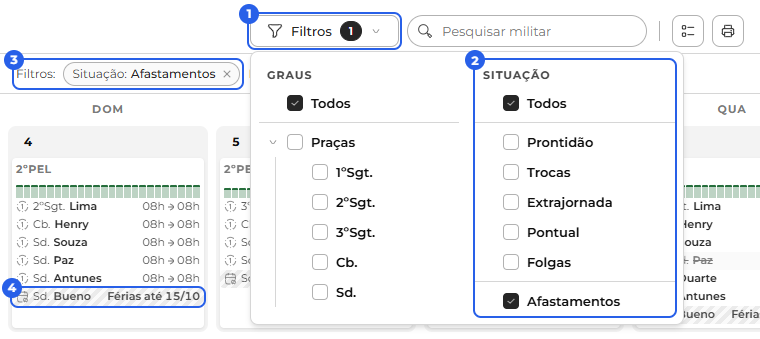
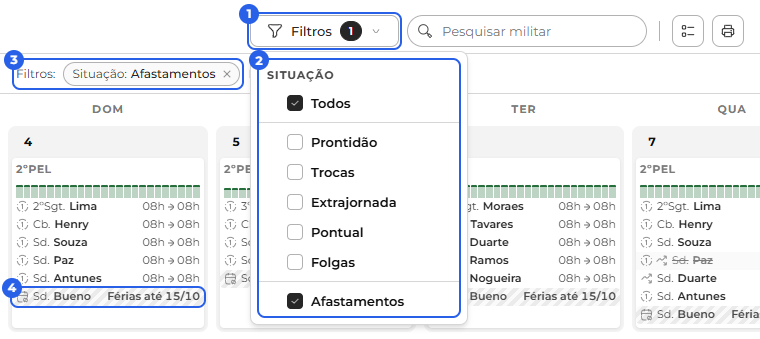
1

diff --git a/manual.html b/manual.html
@@ -590,7 +590,7 @@
               <figure class="manual-figura">
                 <img src="manual/imagens/escala-busca.png" width="220" height="62" alt="A busca da Escala com o nome do militar digitado." />
               </figure>
-              <p><strong>Filtrar a escala.</strong> Nos modos Mês e Colunas, antes da busca, fica o botão <strong>Filtros</strong>. Ele abre duas colunas: <strong>Graus</strong>, para ver só os graus que você marcar (por exemplo, só cabos e soldados), e <strong>Situação</strong>, para ver só um tipo de serviço: <strong>Prontidão</strong> (quem está no ciclo, os contínuos), <strong>Trocas</strong>, <strong>Extrajornada</strong>, <strong>Pontual</strong> ou <strong>Folgas</strong>. Quem está de <strong>férias, licença ou dispensa</strong> aparece quando você marca <strong>Afastamentos</strong>, numa linha listrada que diz até quando vai o afastamento (por exemplo, "Férias até 15/10"). Afastamentos soma ao que já está marcado: com <strong>Todos</strong>, aparecem todos e mais os afastados; para ver só os afastados, desmarque <strong>Todos</strong>. O número no botão diz quantos filtros estão ligados, e a linha <strong>Filtros</strong>, embaixo da barra, mostra quais: o x de cada etiqueta tira só aquele filtro, e <strong>Limpar filtros</strong> tira todos. Os filtros voltam vazios quando você sai da página.</p>
+              <p><strong>Filtrar a escala.</strong> Nos modos Mês e Colunas, antes da busca, fica o botão <strong>Filtros</strong>. Ele abre a coluna <strong>Situação</strong>, para ver só um tipo de serviço: <strong>Prontidão</strong> (quem está no ciclo, os contínuos), <strong>Trocas</strong>, <strong>Extrajornada</strong>, <strong>Pontual</strong> ou <strong>Folgas</strong>. Quem está de <strong>férias, licença ou dispensa</strong> aparece quando você marca <strong>Afastamentos</strong>, numa linha listrada que diz até quando vai o afastamento (por exemplo, "Férias até 15/10"). Afastamentos soma ao que já está marcado: com <strong>Todos</strong>, aparecem todos e mais os afastados; para ver só os afastados, desmarque <strong>Todos</strong>. O número no botão diz quantos filtros estão ligados, e a linha <strong>Filtros</strong>, embaixo da barra, mostra quais: o x de cada etiqueta tira só aquele filtro, e <strong>Limpar filtros</strong> tira todos. Os filtros voltam vazios quando você sai da página.</p>
               <figure class="manual-figura manual-figura--cheia">
                 <img src="manual/imagens/escala-filtros.png" width="760" height="339" alt="O botão Filtros com o número 1 (1), aberto, com Todos e Afastamentos marcados na coluna Situação (2), a linha Filtros com a etiqueta Afastamentos (3) e, num dia, um militar de férias na linha listrada (4)." />
                 <figcaption>
@@ -863,7 +863,7 @@
                 <p><strong>Só naquele dia.</strong> Para escalar um militar só num dia, sem entrar no ciclo, use o <strong>Adicionar militar</strong> da aba Dia (veja <strong>Ajustar o dia</strong>, logo abaixo).</p>
                 <h3 id="distribuicao-dia">Ajustar o dia <span class="manual-selo-admin">Apenas administradores</span></h3>
                 <p>Na aba <strong>Dia</strong> do painel do dia, você ajusta aquele dia. Para o administrador, a aba já abre pronta para editar: a lista é a mesma que todos veem, com o botão <strong>Adicionar militar</strong> no alto do painel, o <strong>lápis</strong> em cada linha e, ao lado do nome de cada posto, o botão <strong>Editar posto</strong>. As mudanças valem <strong>só para aquele dia</strong> e não precisam de Salvar: cada uma grava na hora, e a escala da página já mostra o dia atualizado.</p>
-                <p><strong>Desfazer e Refazer.</strong> Os ícones no alto do painel, à direita, desfazem a última mudança e a refazem (também pelo teclado: <strong>Ctrl+Z</strong> desfaz e <strong>Ctrl+Y</strong> refaz). Valem para as mudanças feitas enquanto o painel está aberto naquele dia; ao fechar o painel ou trocar de dia, começam do zero. Desfazer não manda aviso a ninguém: se você deu folga a um militar e desfez, ele não recebe aviso de folga cancelada.</p>
+                <p><strong>Desfazer e Refazer.</strong> Os ícones no alto do painel, à direita, desfazem a última mudança e a refazem (também pelo teclado: <strong>Ctrl+Z</strong> desfaz e <strong>Ctrl+Y</strong> refaz). Valem para as mudanças feitas enquanto o painel está aberto naquele dia; ao fechar o painel ou trocar de dia, começam do zero. Desfazer não manda aviso a ninguém: se você deu folga a um militar e desfez, ele não recebe aviso de folga cancelada; se você cancelou uma folga e desfez, ela volta como era.</p>
                 <figure class="manual-figura">
                   <img src="manual/imagens/escala-painel-admin.png" width="400" height="282" alt="O alto do painel do dia para o administrador: as abas Dia, Ciclo e Extrajornada (1), o botão Adicionar militar (2), os ícones Desfazer e Refazer (3), o lápis de uma linha (4) e o botão Editar posto (5)." />
                   <figcaption>
@@ -912,6 +912,7 @@
                     </ol>
                   </figcaption>
                 </figure>
+                <p><strong>Cancelar uma folga.</strong> Quem está de folga no dia aparece riscado na caixa <strong>De folga</strong>, também com o <strong>lápis</strong>. Ele abre a folga daquele militar: o horário dela, se foi contabilizada no banco de horas e o que acontece ao cancelar. O botão <strong>Cancelar folga</strong> pede a confirmação; ao confirmar, o militar volta ao serviço naquele dia, a distribuição é refeita, ele recebe um aviso e, se a folga foi contabilizada, as horas voltam ao saldo dele. Vale para qualquer folga do dia: dada aqui, na página Folgas ou por um pedido aprovado. Para sair sem cancelar, use <strong>Voltar ao dia</strong>.</p>
                 <p><strong>Horário sem ninguém.</strong> Quando você tira alguém de uma função num horário, esse horário fica vermelho, com o botão <strong>Sem ninguém, escolher</strong>. Ele abre o mesmo formulário, já com a função e o horário, e mostra também quem está de serviço sem função nesse horário. A linha mexida tem ainda o ícone <strong>Voltar ao automático</strong>, que desfaz o ajuste.</p>
                 <figure class="manual-figura">
                   <img src="manual/imagens/escala-editar.png" width="391" height="162" alt="Uma função mexida no dia: a linha com o cadeado e o ícone Voltar ao automático (1) e o horário sem ninguém, com o botão Sem ninguém, escolher (2)." />
@@ -1370,7 +1371,7 @@
                     </ol>
                   </figcaption>
                 </figure>
-                <p><strong>A aba Equipe.</strong> Ela mostra o efetivo em dois modos: <strong>Saldos</strong>, o saldo de cada militar, e <strong>Histórico</strong>, os lançamentos de folga do efetivo. Ao clicar num militar em <strong>Saldos</strong>, abre o painel dele com o <strong>extrato</strong> (saldo e lançamentos) e a aba <strong>Ações</strong>, com duas ferramentas. No seu próprio nome, a aba Ações traz só o <strong>Ajustar saldo</strong>: você ajusta o próprio saldo, mas não concede folga a si mesmo.</p>
+                <p><strong>A aba Equipe.</strong> Ela mostra o efetivo em dois modos: <strong>Saldos</strong>, o saldo de cada militar, e <strong>Histórico</strong>, os lançamentos de folga do efetivo. Ao clicar num militar em <strong>Saldos</strong>, abre o painel dele com o <strong>extrato</strong> (saldo e lançamentos) e a aba <strong>Ações</strong>, com duas ferramentas. No extrato, a folga pendente, aprovada ou concedida tem o botão <strong>✕</strong> no fim da linha, que a cancela: o militar volta ao serviço na escala e, se ela foi contabilizada, as horas voltam ao saldo. O mesmo cancelamento está no painel do dia da Escala (veja <strong>Ajustar o dia</strong>). No seu próprio nome, a aba Ações traz só o <strong>Ajustar saldo</strong>: você ajusta o próprio saldo, mas não concede folga a si mesmo.</p>
                 <p><strong>Dar folga.</strong> O botão <strong>Dar folga</strong>, no bloco <strong>Administração</strong>, no alto da página, dá uma folga sem abrir o militar antes. Em <strong>Quem</strong>, procure o militar pelo nome: a lista mostra os das unidades escolhidas no topo, com o saldo de cada um. Depois, o dia, o período e o motivo seguem como no <strong>Conceder folga</strong>, logo abaixo.</p>
                 <figure class="manual-figura">
                   <img src="manual/imagens/folga-dar.png" width="400" height="551" alt="O painel Dar folga: a busca e a lista dos militares com o saldo de cada um (1) e o dia, o período e o motivo (2)." />

diff --git a/js/escalas-painel-editar.js b/js/escalas-painel-editar.js
@@ -3,7 +3,8 @@
    para todos. O admin edita nela: o Adicionar militar (à esquerda)
    e o desfazer/refazer (à direita) ficam no subcabeçalho, cada
    militar tem o lápis (abre o militar no dia) e o ↺ (volta ao
-   automático), o horário sem ninguém vira o botão vermelho "Sem
+   automático), quem está de folga tem o lápis (abre a folga no dia,
+   com o Cancelar folga), o horário sem ninguém vira o botão vermelho "Sem
    ninguém, escolher", e as observações também se editam aqui; o
    título de cada posto tem o Editar posto (escalas-painel-posto.js:
    o efetivo e a troca de viatura, gravados fora do rascunho do dia).
@@ -11,7 +12,7 @@
    Cada mudança grava na hora (escala_dia_salvar, um registro no
    histórico, sem o modal de resumo): o banco devolve o dia gravado e
    a grade atualiza a célula. Rascunho de uma mudança: { ajustes,
-   pontuais, estornar, folgas, observacoes }. O desfazer/
+   pontuais, estornar, folgas, folgas_cancelar, observacoes }. O desfazer/
    refazer grava o caminho de volta (silencioso: ninguém é avisado).
    As sub-telas (formulário e militar no dia) ficam em
    escalas-painel-formulario.js e -militar.js e usam a API daqui
@@ -107,16 +108,16 @@
     return n;
   }
 
-  /* o rascunho mudou o dia gravado? (funções, pontuais, folgas ou observações) */
+  /* o rascunho mudou o dia gravado? (funções, pontuais, folgas dadas ou canceladas, ou observações) */
   function haMudanca() {
     if (!rasc || !base) return false;
     return !mesmosAjustes(base.ajustes, rasc.ajustes) || difPontuais() > 0 || rasc.folgas.length > 0
-      || rasc.observacoes.adicionar.length > 0 || rasc.observacoes.remover.length > 0;
+      || rasc.folgas_cancelar.length > 0 || rasc.observacoes.adicionar.length > 0 || rasc.observacoes.remover.length > 0;
   }
 
   /* o rascunho recomeça do dia gravado */
   function novoRascunho() {
-    rasc = { ajustes: copiar(base.ajustes), pontuais: copiar(base.pontuais), estornar: [], folgas: [],
+    rasc = { ajustes: copiar(base.ajustes), pontuais: copiar(base.pontuais), estornar: [], folgas: [], folgas_cancelar: [],
       observacoes: { adicionar: [], remover: [] } };
   }
 
@@ -142,12 +143,13 @@
   function paraSalvar() {
     var r = paraPrevia();
     r.estornar = rasc.estornar;
+    r.folgas_cancelar = rasc.folgas_cancelar;
     r.observacoes = rasc.observacoes;
     return r;
   }
 
   /* o caminho de volta de uma mudança gravada sobre "antes": a camada manual e os pontuais como estavam, as
-     folgas e as observações que ela criou saem e as observações que ela tirou voltam.
+     folgas e as observações que ela criou saem, e as folgas que ela cancelou e as observações que ela tirou voltam.
      Só volta a ter horas no banco de horas o pontual que as perdeu na mudança (o estorno) */
   function inverso(envio, antes, criadas) {
     criadas = criadas || {};
@@ -168,13 +170,26 @@
       var o = (dados.observacoes || []).filter(function (x) { return x.id === id; })[0];
       if (o) volta.observacoes.adicionar.push(o.texto);
     });
+    /* a folga cancelada volta como era: o mesmo horário e a mesma escolha do banco de horas */
+    (envio.folgas_cancelar || []).forEach(function (id) {
+      var linhas = (dados.folgas || []).filter(function (x) { return x.lancamento_id === id; });
+      if (!linhas.length) return;
+      var f = linhas[0], pr = { hi: null, hf: null };
+      if (!f.dia_inteiro) {
+        var faixas = linhas.map(faixa);
+        pr = periodo([Math.min.apply(null, faixas.map(function (x) { return x[0]; })),
+          Math.max.apply(null, faixas.map(function (x) { return x[1]; }))]);
+      }
+      volta.folgas.push({ cpf: f.cpf, hi: pr.hi, hf: pr.hf, contabilizar: !!f.contabilizada });
+    });
     return volta;
   }
 
-  /* a ida de novo, depois de desfeita: as observações que ela tira voltaram com outro id */
+  /* a ida de novo, depois de desfeita: as observações que ela tira e as folgas que ela cancela voltaram com outro id */
   function refeito(frente, criadas) {
     var f = copiar(frente);
     if (f.observacoes && f.observacoes.remover.length) f.observacoes.remover = copiar((criadas && criadas.observacoes) || []);
+    if (f.folgas_cancelar && f.folgas_cancelar.length) f.folgas_cancelar = copiar((criadas && criadas.folgas) || []);
     return f;
   }
 
@@ -369,6 +384,11 @@
     if (outras.length) cortarAjustes(cpf, horas);
     else rasc.ajustes = rasc.ajustes.filter(function (a) { return a.cpf !== cpf; });
     if (estornar && rasc.estornar.indexOf(cpf) < 0) rasc.estornar.push(cpf);
+  }
+
+  /* Cancelar folga (a folga no dia): a folga sai e o militar volta ao serviço; o desfazer a dá de novo igual */
+  function cancelarFolga(id) {
+    if (rasc.folgas_cancelar.indexOf(id) < 0) rasc.folgas_cancelar.push(id);
   }
 
   function pontualSalvo(cpf) { return (base.pontuais || []).some(function (x) { return x.cpf === cpf; }); }
@@ -774,7 +794,7 @@
     return caixa;
   }
 
-  /* De folga: nome riscado, ícone de folga e o período */
+  /* De folga: nome riscado, ícone de folga e o período; para o admin, o lápis abre a folga no dia */
   function caixaFolgas(folgas) {
     if (!folgas.length) return null;
     var caixa = RosterWork.painel.criarCaixa(msg().deFolga);
@@ -782,8 +802,9 @@
     var grupo = novoGrupo([], null);
     if (!grupo) return caixa;
     folgas.forEach(function (f) {
+      var acoes = ctx.admin && f.lancamento_id ? [botao('tpl-escala-edicao-lapis', function () { abrirFolga(f.lancamento_id); })] : [];
       var linha = linhaMilitar({ cpf: f.cpf, grad: f.grad, nome: f.nome, periodos: [{ hi: f.hi, hf: f.hf }] },
-        { folga: true, icone: 'icone-folgas' });
+        { folga: true, icone: 'icone-folgas', acoes: acoes });
       if (linha) grupo.linhas.appendChild(linha);
     });
     caixa.appendChild(grupo.el);
@@ -871,7 +892,8 @@
   /* ---------- sub-telas (formulário e militar no dia) ---------- */
 
   /* troca a lista por uma sub-tela: "Voltar ao dia" no topo e Cancelar · Aplicar no rodapé.
-     montar(corpo) desenha o conteúdo; aoAplicar() faz a mudança e chama concluirSub() */
+     montar(corpo) desenha o conteúdo; aoAplicar() faz a mudança e chama concluirSub(). Sem textoAplicar (a folga
+     no dia, que grava pelo botão dela), a sub-tela fica sem rodapé e a saída é o Voltar ao dia */
   function abrirSub(textoAplicar, montarConteudo, aoAplicar) {
     if (!ctx || !rasc || !ctx.admin || ctx.salvando) return;
     if (!ctx.emSub) foto = copiar(rasc);   // de uma sub-tela para outra, a foto continua a do dia
@@ -888,6 +910,7 @@
     var rodape = ctx.rodape;
     if (!rodape) return;
     rodape.textContent = '';
+    if (!textoAplicar) { rodape.classList.add('oculto'); return; }
     var tpl = document.getElementById('tpl-escala-sub-acoes');
     if (tpl) rodape.appendChild(tpl.content.cloneNode(true));
     rodape.classList.remove('oculto');
@@ -918,6 +941,7 @@
 
   function abrirFormulario(cfg) { if (RosterWork.escalasPainelFormulario) RosterWork.escalasPainelFormulario.abrir(cfg); }
   function abrirMilitar(cpf) { if (RosterWork.escalasPainelMilitar) RosterWork.escalasPainelMilitar.abrir(cpf); }
+  function abrirFolga(id) { if (RosterWork.escalasPainelMilitar) RosterWork.escalasPainelMilitar.abrirFolga(id); }
 
   /* ---------- ciclo de vida ---------- */
 
@@ -975,6 +999,7 @@
       aplicarColocacao: aplicarColocacao,
       aplicarMilitar: aplicarMilitar,
       darFolga: darFolga,
+      cancelarFolga: cancelarFolga,
       tirarPontual: tirarPontual,
       pontualSalvo: pontualSalvo,
       funcoesDoMilitar: funcoesDoMilitar,

diff --git a/js/escalas-filtros.js b/js/escalas-filtros.js
@@ -1,13 +1,12 @@
 /* ============================================================
    ESCALAS — filtros e busca da barra de controles
-   O botão Filtros (componente geral-filtros, com as colunas Graus e
-   Situação) vale nos modos de grade (Mês, Semana e Colunas); no Dia
+   O botão Filtros (componente geral-filtros, com a coluna Situação)
+   vale nos modos de grade (Mês, Semana e Colunas); no Dia
    e no Militares fica escondido. A busca (nome/CPF/RG, marcar ou filtrar) vale
    em todos os modos menos o Militares (que tem a sua própria).
    Filtro e busca se aplicam juntos nas linhas de militar já
-   desenhadas: cada linha traz o grau e a situação (escalas-celula.js).
+   desenhadas: cada linha traz a situação (escalas-celula.js).
    Os afastados vêm escondidos e só aparecem com Afastamentos marcado.
-   A lista de graus é montada com quem aparece no período.
    ============================================================ */
 (function () {
   'use strict';
@@ -37,43 +36,22 @@
 
   function filtrosValem() { return !!MODOS_COM_FILTRO[obterModo()]; }
 
-  /* graus de quem aparece no período, em Oficiais e Praças, do mais antigo ao mais moderno */
-  function montarGraus(corpo) {
-    if (!filtros) return;
-    var vistos = {};
-    var grupos = { 'Oficiais': [], 'Praças': [] };
-    Array.prototype.forEach.call(corpo.querySelectorAll('.linha-escalado[data-grau]'), function (linha) {
-      var valor = linha.getAttribute('data-grau');
-      if (!valor || vistos[valor]) return;
-      vistos[valor] = true;
-      var grupo = linha.getAttribute('data-quadro') === 'QPBM' ? 'Praças' : 'Oficiais';
-      grupos[grupo].push({ rotulo: linha.getAttribute('data-grad') || valor, valor: valor, ordem: Number(linha.getAttribute('data-grau-ordem')) || 0 });
-    });
-    var arvore = [];
-    ['Oficiais', 'Praças'].forEach(function (g) {
-      if (!grupos[g].length) return;
-      grupos[g].sort(function (a, b) { return a.ordem - b.ordem; });
-      arvore.push({ rotulo: g, filhos: grupos[g].map(function (x) { return { rotulo: x.rotulo, valor: x.valor }; }) });
-    });
-    filtros.definir('graus', arvore);
-  }
-
   /* a linha passa nos filtros? Situação: "Todos" (padrão) = todos menos os afastados;
      Afastamentos é um acréscimo ("Todos" + Afastamentos = todos e os afastados; desmarcar
      o "Todos" deixa só os afastados) — a regra mora no geral-filtro-arvore */
   function passaFiltros(linha) {
-    return passa(linha.getAttribute('data-situacao'), linha.getAttribute('data-grau'));
+    return passa(linha.getAttribute('data-situacao'));
   }
 
-  function passa(situacao, grau) {
+  function passa(situacao) {
     if (!filtros || !filtrosValem()) return situacao !== 'afastamento';
-    return filtros.passa('graus', grau) && filtros.passa('situacao', situacao);
+    return filtros.passa('situacao', situacao);
   }
 
   /* a pessoa (dado da grade) passa nos filtros da tela? O PDF das grades sai igual à tela */
   function passaPessoa(p) {
     var celula = window.RosterWork.escalasCelula;
-    return passa(celula ? celula.situacao(p) : 'prontidao', p.grau || null);
+    return passa(celula ? celula.situacao(p) : 'prontidao');
   }
 
   /* os filtros ligados, como as etiquetas da linha "Filtros:" (["Situação: Afastamentos", ...]; nenhum = []),
@@ -92,7 +70,6 @@
     var corpo = conteudo.querySelector('.pagina-corpo');
     if (!corpo) return;
     var RW = window.RosterWork;
-    if (filtrosValem()) montarGraus(corpo);
     Array.prototype.forEach.call(corpo.querySelectorAll('.escala-mes-celula--busca'), function (cel) {
       cel.classList.remove('escala-mes-celula--busca');
     });

diff --git a/js/escalas-painel-militar.js b/js/escalas-painel-militar.js
@@ -10,6 +10,9 @@
    (do ciclo: folga, com o modal do banco de horas; pontual: sai do
    dia). As mudanças ficam aqui até Aplicar, que as grava
    (escalas-painel-editar.js) e volta ao dia.
+   A folga no dia (o lápis da caixa De folga): quem está de folga, o
+   horário, o efeito de cancelar e o Cancelar folga, que confirma e
+   grava na hora; sem rodapé, a saída é o Voltar ao dia.
    ============================================================ */
 (function () {
   'use strict';
@@ -258,5 +261,35 @@
     desenhar();
   }
 
-  window.RosterWork.escalasPainelMilitar = { abrir: abrir };
+  /* a folga no dia: id = a folga (lancamento_id); as linhas dela no dia dão o horário */
+  function abrirFolga(id) {
+    var api = ed(), H = api.horas;
+    var linhas = ((api.dados() || {}).folgas || []).filter(function (f) { return f.lancamento_id === id; });
+    if (!linhas.length) return;
+    var f = linhas[0];
+    var contabilizada = !!f.contabilizada;
+
+    function montar(corpo) {
+      var tela = RosterWork.tpl('tpl-escala-folga-dia');
+      if (!tela) return;
+      tela.querySelector('.escala-distribuicao-grad').textContent = f.grad || '';
+      tela.querySelector('.escala-militar-nome-texto').textContent = f.nome || '';
+      tela.querySelector('.escala-folga-dia-periodo').textContent =
+        msg().folgaNoDia(f.dia_inteiro ? '' : H.textoPeriodos(linhas), contabilizada);
+      tela.querySelector('.nota-texto').textContent = msg().cancelarFolgaEfeito(nomeDe(f), contabilizada);
+      tela.querySelector('.escala-folga-dia-cancelar').addEventListener('click', cancelar);
+      corpo.appendChild(tela);
+    }
+
+    function cancelar() {
+      var botoes = RosterWork.mensagens.botoes;
+      RosterWork.confirmar({ tipo: 'aviso', mensagem: msg().confirmarCancelarFolga(nomeDe(f), diaMes(api.iso())),
+        textoConfirmar: botoes.cancelarFolga, textoCancelar: botoes.manter, confirmarPerigo: true,
+        aoConfirmar: function () { api.cancelarFolga(id); api.concluir(); } });
+    }
+
+    api.abrir(null, montar, null);
+  }
+
+  window.RosterWork.escalasPainelMilitar = { abrir: abrir, abrirFolga: abrirFolga };
 })();

diff --git a/componentes/js/geral-mensagens.js b/componentes/js/geral-mensagens.js
@@ -498,6 +498,15 @@
       },
       semServicoNoDia: 'Sem serviço neste dia.',
       folgaSiMesmo: 'Você não pode dar folga a si mesmo.',
+      /* a folga no dia (o lápis da caixa De folga): o horário, o efeito de cancelar e a confirmação */
+      folgaNoDia: function (periodo, contabilizada) {
+        return 'De folga ' + (periodo || 'o dia todo') + ', ' + (contabilizada ? 'contabilizada' : 'não contabilizada');
+      },
+      cancelarFolgaEfeito: function (militar, contabilizada) {
+        return 'Ao cancelar, o ' + militar + ' volta ao serviço no dia e a distribuição é refeita. '
+          + (contabilizada ? 'Como a folga foi contabilizada, as horas dela voltam ao saldo.' : 'Como a folga não foi contabilizada, o saldo dele não muda.');
+      },
+      confirmarCancelarFolga: function (militar, data) { return 'Cancelar a folga do ' + militar + ' em ' + data + '?'; },
       /* modal do banco de horas (Contabilizar · Não contabilizar · Cancelar) */
       contabilizarPontual: function (militar, horas, data) {
         return 'O ' + militar + ' vai trabalhar ' + horas + ' a mais em ' + data + '. Contabilizar +' + horas + ' no banco de horas dele?';
@@ -1519,6 +1528,7 @@
       copiarMensagem: 'Copiar mensagem',
       mensagemCopiada: 'Mensagem copiada',
       cancelarLink: 'Cancelar link',
+      cancelarFolga: 'Cancelar folga',
       salvar: 'Salvar',
       /* modal do banco de horas (folga e pontual) */
       contabilizar: 'Contabilizar',

diff --git a/index.html b/index.html
@@ -1671,6 +1671,26 @@
     </div>
   </template>
 
+  <!-- ===== folga no dia (lápis da caixa De folga; escalas-painel-militar.js) ===== -->
+  <template id="tpl-escala-folga-dia">
+    <div class="subtela escala-militar">
+      <div class="subtela-cab">
+        <span class="subtela-titulo escala-militar-nome">
+          <span class="escala-distribuicao-grad"></span>
+          <span class="escala-militar-nome-texto"></span>
+        </span>
+        <span class="subtela-subtitulo escala-folga-dia-periodo"></span>
+      </div>
+      <div class="nota">
+        <svg class="icone" width="16" height="16" aria-hidden="true"><use href="icones/todos.svg#icone-alerta"/></svg>
+        <span class="nota-texto"></span>
+      </div>
+      <div class="escala-militar-acoes">
+        <button type="button" class="botao escala-secao-botao--perigo escala-folga-dia-cancelar">Cancelar folga</button>
+      </div>
+    </div>
+  </template>
+
   <!-- uma função do militar no dia: marcada ele continua, desmarcada ele deixa (o efeito aparece embaixo) -->
   <template id="tpl-escala-militar-funcao">
     <div class="escala-militar-funcao">

diff --git a/js/escalas-celula.js b/js/escalas-celula.js
@@ -262,14 +262,7 @@
     linha.querySelector('.linha-escalado-grad').textContent = p.grad || '';
     linha.querySelector('.linha-escalado-nome').textContent = p.nome || '';
     if (window.RosterWork.busca) linha.setAttribute('data-busca', window.RosterWork.busca.chave(p));   // busca do sub-cabeçalho (nome/CPF/RG)
-    /* o que os filtros da barra leem: a situação e o grau (com o grupo e a ordem, para a lista de graus) */
-    linha.setAttribute('data-situacao', situacao(p));
-    if (p.grau) {
-      linha.setAttribute('data-grau', p.grau);
-      linha.setAttribute('data-grad', p.grad || '');
-      linha.setAttribute('data-quadro', p.quadro || '');
-      linha.setAttribute('data-grau-ordem', p.grau_ordem != null ? String(p.grau_ordem) : '');
-    }
+    linha.setAttribute('data-situacao', situacao(p));   // o que o filtro Situação da barra lê
     var horaWrap = linha.querySelector('.linha-escalado-hora');
     /* afastado (férias, licença ou dispensa): vem escondido (só aparece com o filtro Afastamentos)
        e, no lugar do horário, "Férias até DD/MM" */

diff --git a/escalas.html b/escalas.html
@@ -65,11 +65,10 @@
 
     <span class="espacador-flex"></span>
 
-    <!-- botão Filtros (componente geral-filtros: um lugar por filtro, que vira uma coluna do menu) nos modos Mês,
-         Semana e Colunas; a linha "Filtros:" entra abaixo da barra. As opções vêm do escalas-filtros.js;
+    <!-- botão Filtros (componente geral-filtros: um lugar por filtro, que vira uma coluna do menu; aqui só a Situação)
+         nos modos Mês, Semana e Colunas; a linha "Filtros:" entra abaixo da barra. As opções vêm do escalas-filtros.js;
          Afastamentos fica fora do "Todos" e é um acréscimo (começa desmarcado) -->
     <div class="filtros oculto" id="escala-filtros">
-      <div data-filtro="graus" data-filtro-nome="Grau" data-filtro-titulo="Graus"></div>
       <div data-filtro="situacao" data-filtro-nome="Situação" data-filtro-titulo="Situação"></div>
     </div>
 
